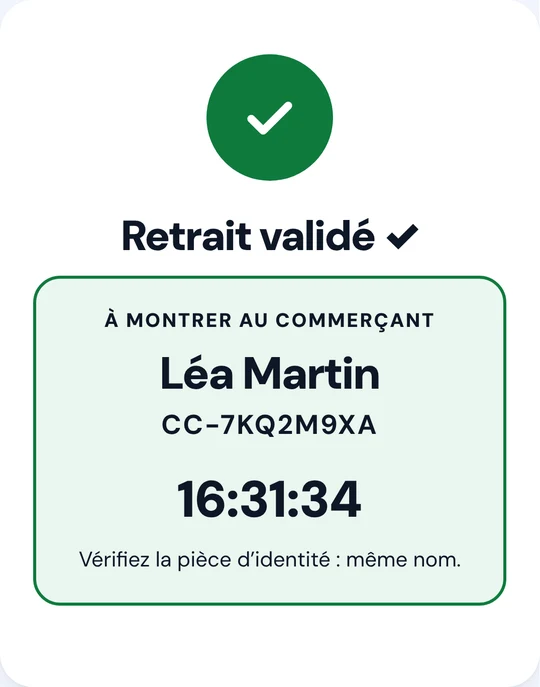
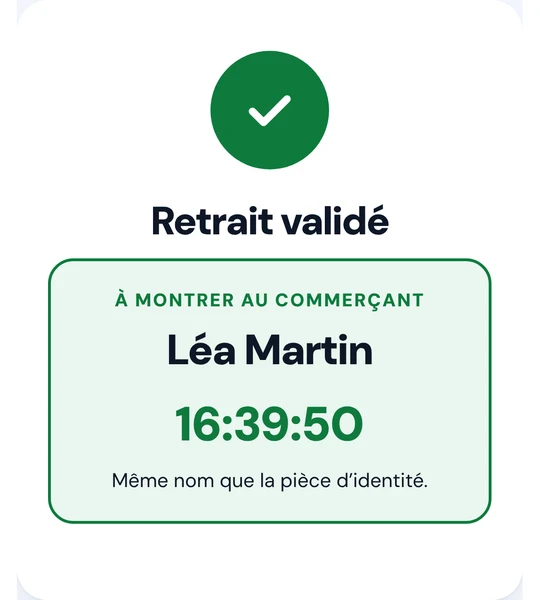
Écran « Retour validé » bleu (comme le retrait), flyer épuré à 2 écrans de confirmation : Retrait / Retour + code
Claude-Session: https://claude.ai/code/session_01GEnKbPYfUY1zWoPXS2iGVo

diff --git a/retrait.html b/retrait.html
@@ -86,9 +86,13 @@ input.pin{letter-spacing:.5em;font-weight:800;font-size:24px;text-align:center}
 .fini .m-piece{font-size:14px;color:var(--ink-2)}
 /* échange : couleur orange et flèches, pour que le commerçant ne le confonde
    jamais avec un retrait (vert) */
+.fini .montrer .m-a,.fini .montrer .m-horloge{color:var(--ok)}
 .fini.ech .rond{background:#C2410C}
+.fini.rtr .rond{background:var(--vif)}
+.fini.rtr .montrer{border-color:var(--vif);background:#E8F0FD}
+.fini.rtr .montrer .m-a,.fini.rtr .montrer .m-horloge{color:var(--vif)}
 .fini.ech .montrer{border-color:#C2410C;background:#FFF1E6}
-.fini.ech .m-a,.fini.ech .m-horloge{color:#C2410C}
+.fini.ech .montrer .m-a,.fini.ech .montrer .m-horloge{color:#C2410C}
 .code-l{display:block;font-weight:800;margin:16px 0 6px}
 .code-com{width:100%;min-height:58px;border:1.5px solid var(--line);border-radius:14px;font:900 28px 'DM Sans',sans-serif;letter-spacing:.3em;text-align:center;color:var(--ink);background:#fff}
 .code-com:focus{outline:none;border-color:var(--vif);box-shadow:0 0 0 3px rgba(26,94,219,.18)}
@@ -177,7 +181,6 @@ html:not([data-l="en"]):not([data-l="es"]) [lang="en"],html:not([data-l="en"]):n
       <div class="montrer" id="f-montrer" hidden>
         <p class="m-a"><span lang="fr">À montrer au commerçant</span><span lang="en">Show this to the shopkeeper</span><span lang="es">Enséñaselo al comerciante</span></p>
         <p class="m-nom" id="f-nom"></p>
-        <p class="m-ref" id="f-ref"></p>
         <p class="m-horloge" id="f-horloge" aria-live="off"></p>
         <p class="m-piece"><span lang="fr">Vérifiez la pièce d’identité : même nom.</span><span lang="en">Check the ID: same name.</span><span lang="es">Comprueba el documento de identidad: mismo nombre.</span></p>
       </div>
@@ -185,7 +188,7 @@ html:not([data-l="en"]):not([data-l="es"]) [lang="en"],html:not([data-l="en"]):n
       <div class="avis-retour" id="f-avis" hidden>
         <p class="av-etoiles" aria-hidden="true">★★★★★</p>
         <p class="av-q"><span lang="fr">Comment s’est passée votre location&nbsp;?</span><span lang="en">How was your rental?</span><span lang="es">¿Qué tal tu alquiler?</span></p>
-        <p class="av-s"><span lang="fr">Votre avis aide vos voisins à nous trouver. 30 secondes, sur Google.</span><span lang="en">Your review helps your neighbours find us. 30 seconds, on Google.</span><span lang="es">Tu opinión ayuda a tus vecinos a encontrarnos. 30 segundos, en Google.</span></p>
+        
         <a class="btn av-btn" href="https://g.page/r/CeJQrt2gLNNrEAE/review" target="_blank" rel="noopener noreferrer"><span lang="fr">Laisser un avis</span><span lang="en">Leave a review</span><span lang="es">Dejar una opinión</span></a>
       </div>
     </div>
@@ -320,16 +323,16 @@ html:not([data-l="en"]):not([data-l="es"]) [lang="en"],html:not([data-l="en"]):n
   /* écran de confirmation à montrer au commerçant : nom, numéro, et une
      horloge qui tourne à la seconde (une capture d'écran ne bouge pas) */
   var minuterie = null;
-  var COCHE = '<path d="M5 12.5l4.5 4.5L19 7.5"/>', FLECHES = '<path d="M4 9h13l-4-4M20 15H7l4 4"/>';
+  var COCHE = '<path d="M5 12.5l4.5 4.5L19 7.5"/>', FLECHES = '<path d="M4 9h13l-4-4M20 15H7l4 4"/>', RETOUR = '<path d="M9 14L4 9l5-5M4 9h10a6 6 0 010 12h-3"/>';
   function montrerAuCommercant(sorte){
-    var ech = sorte === 'echange';
-    document.querySelector('#e-fini .carte').classList.toggle('ech', ech);
-    document.querySelector('#e-fini .rond svg').innerHTML = ech ? FLECHES : COCHE;
+    var ech = sorte === 'echange', rtr = sorte === 'retour', carte = document.querySelector('#e-fini .carte');
+    carte.classList.toggle('ech', ech); carte.classList.toggle('rtr', rtr);
+    document.querySelector('#e-fini .rond svg').innerHTML = ech ? FLECHES : rtr ? RETOUR : COCHE;
     document.querySelector('#e-fini .m-piece').textContent = ech
       ? L('Reprenez son appareil et donnez-en un autre.', 'Take back the unit and hand over another one.', 'Recoge su aparato y entrégale otro.')
-      : L('Vérifiez la pièce d’identité : même nom.', 'Check the ID: same name.', 'Comprueba el documento de identidad: mismo nombre.');
+      : rtr ? L('Reprenez l’appareil.', 'Take back the unit.', 'Recoge el aparato.')
+      : L('Même nom que la pièce d’identité.', 'Same name as the ID.', 'Mismo nombre que el documento.');
     $('f-nom').textContent = ((etat.resa.prenom || '') + ' ' + (etat.resa.nom || '')).trim();
-    $('f-ref').textContent = etat.resa.ref || etat.ref;
     $('f-montrer').hidden = false;
     var loc = langue() === 'en' ? 'en-GB' : langue() === 'es' ? 'es-ES' : 'fr-FR';
     function tic(){ var d = new Date(); $('f-horloge').textContent = d.toLocaleTimeString(loc, {hour:'2-digit', minute:'2-digit', second:'2-digit', timeZone:'Europe/Paris'}); }
@@ -341,7 +344,7 @@ html:not([data-l="en"]):not([data-l="es"]) [lang="en"],html:not([data-l="en"]):n
       if(!r.ok) return erreur($('sig-err'), r.j.error || L('Échec. Réessayez.', 'Failed. Please try again.', 'Error. Inténtalo de nuevo.'));
       if(r.j.issue === 'echange_comptoir'){
         $('e-resa').hidden = true; $('e-fini').hidden = false; window.scrollTo(0, 0);
-        $('f-titre').textContent = L('Échange validé ⇄', 'Swap confirmed ⇄', 'Cambio confirmado ⇄');
+        $('f-titre').textContent = L('Échange validé', 'Swap confirmed', 'Cambio confirmado');
         montrerAuCommercant('echange');
         $('f-texte').textContent = L('Votre location continue jusqu’au ', 'Your rental continues until ', 'Tu alquiler sigue hasta el ') + date(etat.resa.date_fin).replace(/\.$/, '') + '.' + (r.j.dossier ? ' (' + r.j.dossier + ')' : '');
       } else {
@@ -359,7 +362,7 @@ html:not([data-l="en"]):not([data-l="es"]) [lang="en"],html:not([data-l="en"]):n
       b.disabled = false;
       if(!r.ok) return erreur($('m-cli'), r.j.error || L('Échec. Réessayez.', 'Failed. Please try again.', 'Error. Inténtalo de nuevo.'));
       $('e-resa').hidden = true; $('e-fini').hidden = false; window.scrollTo(0, 0);
-      $('f-titre').textContent = L('Retrait validé ✓', 'Pick-up confirmed ✓', 'Recogida confirmada ✓');
+      $('f-titre').textContent = L('Retrait validé', 'Pick-up confirmed', 'Recogida confirmada');
       montrerAuCommercant();
       $('f-texte').textContent = L('À rapporter ici le ', 'Bring it back here on ', 'Devuélvelo aquí el ') + date(etat.resa.date_fin).replace(/\.$/, '') + '.';
     }).catch(function(){ b.disabled = false; erreur($('m-cli'), L('Pas de connexion. Réessayez.', 'No connection. Please try again.', 'Sin conexión. Inténtalo de nuevo.')); });
@@ -387,7 +390,7 @@ html:not([data-l="en"]):not([data-l="es"]) [lang="en"],html:not([data-l="en"]):n
       if(!r.ok){ if(r.j.code === 'code_commercant'){ $('code-com').setAttribute('aria-invalid', 'true'); $('code-com').select(); } return erreur($('m-com'), r.j.error || L('Échec. Réessayez.', 'Failed. Please try again.', 'Error. Inténtalo de nuevo.')); }
       $('e-resa').hidden = true; $('e-fini').hidden = false; window.scrollTo(0, 0);
       if(action === 'valider'){ $('f-titre').textContent = L('C’est parti, bonne fraîcheur !', 'All set, stay cool!', '¡Listo, disfruta del fresco!'); $('f-texte').textContent = L('Remise confirmée. Rapportez l’appareil ici le ', 'Handover confirmed. Bring the unit back here on ', 'Entrega confirmada. Devuelve el aparato aquí el ') + date(etat.resa.date_fin).replace(/\.$/, '') + '.'; }
-      else { $('f-avis').hidden = false; $('f-titre').textContent = L('Retour confirmé, merci !', 'Return confirmed, thank you!', '¡Devolución confirmada, gracias!'); $('f-texte').textContent = L('Votre facture arrive par email.', 'Your invoice is on its way by email.', 'Tu factura llega por email.'); return; }
+      else { $('f-avis').hidden = false; $('f-titre').textContent = L('Retour validé', 'Return confirmed', 'Devolución confirmada'); montrerAuCommercant('retour'); $('f-texte').textContent = L('Votre facture arrive par email.', 'Your invoice is on its way by email.', 'Tu factura llega por email.'); return; }
     }).catch(function(x){ b.disabled = false; erreur($('m-com'), (x && x.message) || L('Pas de connexion. Réessayez.', 'No connection. Please try again.', 'Sin conexión. Inténtalo de nuevo.')); });
   });
 })();

diff --git a/admin/flyers-commercants.html b/admin/flyers-commercants.html
@@ -33,19 +33,18 @@ body{margin:0;background:#E9EEF7;font-family:'DM Sans',system-ui,sans-serif;colo
 /* 3 colonnes = 3 moments au comptoir. Chaque colonne : le mot (couleur),
    l'écran que le client montre, ce que l'employé fait. Le code est dans
    la colonne Retour, là où il sert. Lisible d'un coup d'œil. */
-.cols{display:grid;grid-template-columns:repeat(3,1fr);gap:4mm;margin:auto 0}
+.cols{display:grid;grid-template-columns:repeat(2,1fr);gap:6mm;margin:auto 0}
 .col{--c:#0F7A3D;--f:#EAF6EF;display:flex;flex-direction:column;border:.8mm solid var(--c);border-radius:4mm;overflow:hidden}
 .col.rtr{--c:#1A5EDB;--f:#E8F0FD}.col.ech{--c:#C2410C;--f:#FFF1E6}
-.tete{background:var(--c);color:#fff;text-align:center;font-size:5.6mm;font-weight:900;letter-spacing:-.01em;padding:2.4mm 0}
-.col img{width:100%;aspect-ratio:540/687;object-fit:cover;object-position:top;display:block;border-bottom:.3mm solid var(--line)}
-.faire{height:58mm;background:var(--f);display:flex;flex-direction:column;align-items:center;justify-content:center;text-align:center;padding:3mm 2mm;gap:1mm}
+.tete{background:var(--c);color:#fff;text-align:center;font-size:7mm;font-weight:900;letter-spacing:-.01em;padding:2.4mm 0}
+.col img{width:100%;aspect-ratio:540/600;object-fit:cover;object-position:top;display:block;border-bottom:.3mm solid var(--line)}
+.faire{height:36mm;background:var(--f);display:flex;flex-direction:column;align-items:center;justify-content:center;text-align:center;padding:3mm 2mm;gap:1mm}
 .faire p{margin:0}
-.faire .v{font-size:3.8mm;font-weight:900;line-height:1.2;color:var(--ink)}
-.faire .s{font-size:3.2mm;line-height:1.3;color:var(--ink-2)}
-.code{font-size:17mm;font-weight:900;letter-spacing:.08em;line-height:1;color:var(--c)}
+.faire .v{font-size:6mm;font-weight:900;line-height:1.2;color:var(--ink)}
+.faire .s{font-size:4mm;line-height:1.3;color:var(--ink-2)}
+.code{font-size:20mm;font-weight:900;letter-spacing:.08em;line-height:1;color:var(--c)}
 .code.long{font-size:8mm;letter-spacing:.04em}
-.non{margin-top:auto!important;padding-top:2mm;border-top:.3mm dashed var(--c);width:100%;font-size:2.9mm;font-weight:700;line-height:1.3;color:#B42318}
-.jamais{font-size:3mm;font-weight:800;text-transform:uppercase;letter-spacing:.06em;color:#B42318}
+.jamais{font-size:3.6mm;font-weight:800;text-transform:uppercase;letter-spacing:.06em;color:#B42318}
 .bas{margin-top:0;display:flex;gap:5mm;align-items:center}
 .bas img{width:22mm;height:22mm;flex-shrink:0}
 .bas p{margin:0;font-size:3.4mm;line-height:1.5;color:var(--ink-2)}
@@ -86,11 +85,10 @@ body{margin:0;background:#E9EEF7;font-family:'DM Sans',system-ui,sans-serif;colo
           '<div class="haut"><div class="logo">Loc<em>’Air</em></div><span class="prive">Ne pas afficher</span></div>' +
           '<p class="point">' + esc(p.nom) + (p.exemple ? ' (exemple)' : '') + '</p>' +
           '<div class="cols">' +
-            '<div class="col"><div class="tete">✓ Retrait</div><img src="/flyer-ecran-retrait.webp" alt="Écran vert « Retrait validé » avec le nom du client et l’heure qui défile"><div class="faire"><p class="s">L’heure défile&nbsp;?<br>Même nom que la pièce d’identité&nbsp;?</p><p class="v">Donnez un appareil sous housse.</p><p class="non">Sinon&nbsp;: ne donnez rien.</p></div></div>' +
-            '<div class="col rtr"><div class="tete">↩ Retour</div><img src="/flyer-ecran-retour.webp" alt="Écran bleu du retour : photo du climatiseur et case « Code commerçant »"><div class="faire"><p class="s">Sous housse, avec sa gaine&nbsp;?<br>Dites-lui ce code&nbsp;:</p>' +
+            '<div class="col"><div class="tete">Retrait</div><img src="/flyer-ecran-retrait.webp" alt="Écran vert « Retrait validé » : nom du client et heure qui défile"><div class="faire"><p class="v">Donnez l’appareil.</p></div></div>' +
+            '<div class="col rtr"><div class="tete">Retour</div><img src="/flyer-ecran-retour.webp" alt="Écran bleu « Retour validé » : nom du client et heure qui défile"><div class="faire"><p class="s">Votre code</p>' +
               (p.code_retour ? '<p class="code' + (String(p.code_retour).length > 3 ? ' long' : '') + '">' + esc(p.code_retour) + '</p>' : '<p class="code vide">Téléphone manquant</p>') +
-              '<p class="jamais">Jamais avant</p><p class="non">Abîmé, incomplet&nbsp;? Il touche «&nbsp;Un problème&nbsp;?&nbsp;».</p></div></div>' +
-            '<div class="col ech"><div class="tete">⇄ Échange</div><img src="/flyer-ecran-echange.webp" alt="Écran orange « Échange validé » avec le nom du client et l’heure qui défile"><div class="faire"><p class="s">Écran orange&nbsp;?</p><p class="v">Reprenez le sien, mettez-le de côté. Donnez-en un autre.</p><p class="non">Pas d’écran orange&nbsp;: pas d’échange.</p></div></div>' +
+              '<p class="jamais">Jamais avant</p></div></div>' +
           '</div>' +
           '<div class="bas"><img src="' + qr + '" alt="QR code espace partenaire"><p><b>Votre espace partenaire</b>Un souci&nbsp;? 06 63 79 87 56</p></div>' +
         '</section>';

diff --git a/partenaire/index.html b/partenaire/index.html
@@ -741,7 +741,7 @@ function renderDashboard(d){
       <div>
         <div class="ps-title">Votre code retour Click &amp; Collect : <b style="font-size:22px;letter-spacing:.1em">${escHtml(d.point_retrait.code_retour || '—')}</b></div>
         <div class="ps-sub">${d.point_retrait.code_retour
-          ? 'Seulement au retour. Jamais à l’avance.<br><br><b style="color:#0F7A3D">✓ Écran vert</b> = retrait : l’heure défile et même nom que sa pièce d’identité ? Donnez l’appareil.<br><b style="color:#1A5EDB">↩ Écran bleu</b> = retour : donnez votre code.<br><b style="color:#C2410C">⇄ Écran orange</b> = échange : mettez le sien de côté, donnez-en un autre.'
+          ? 'Écran <b style="color:#0F7A3D">vert</b> = retrait : donnez l’appareil.<br>Écran <b style="color:#1A5EDB">bleu</b> = retour : c’est fini.<br>Votre code se donne au retour, jamais avant.'
           : 'Aucun téléphone enregistré pour votre boutique : écrivez à Loc’Air pour l’ajouter.'}</div>
       </div>
     </div>` : ''}
